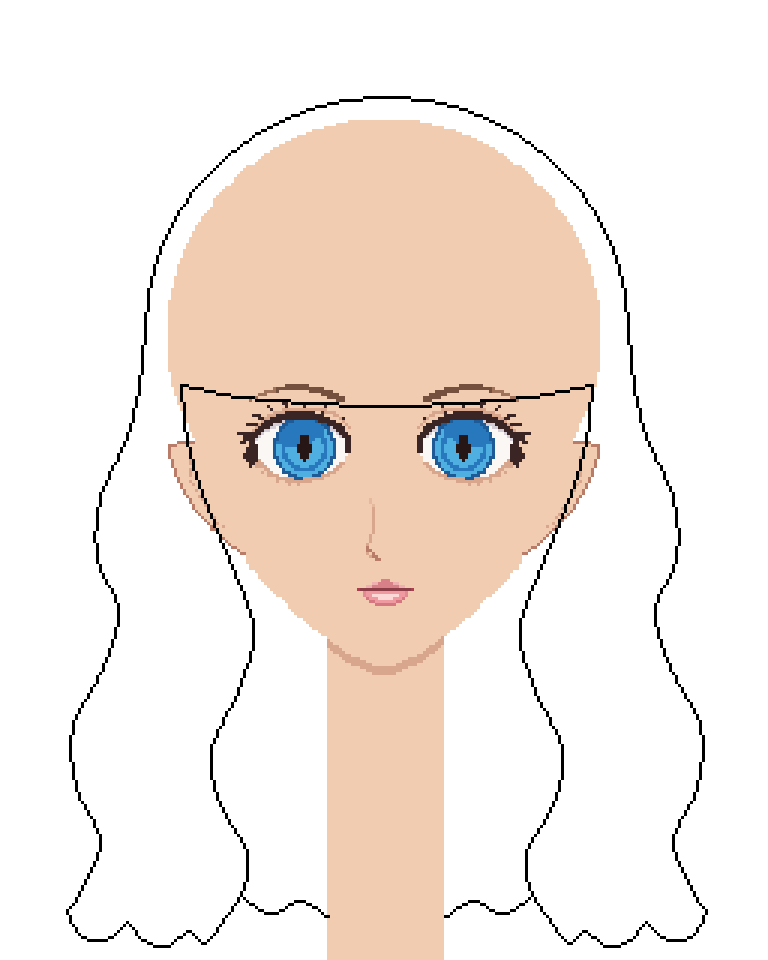
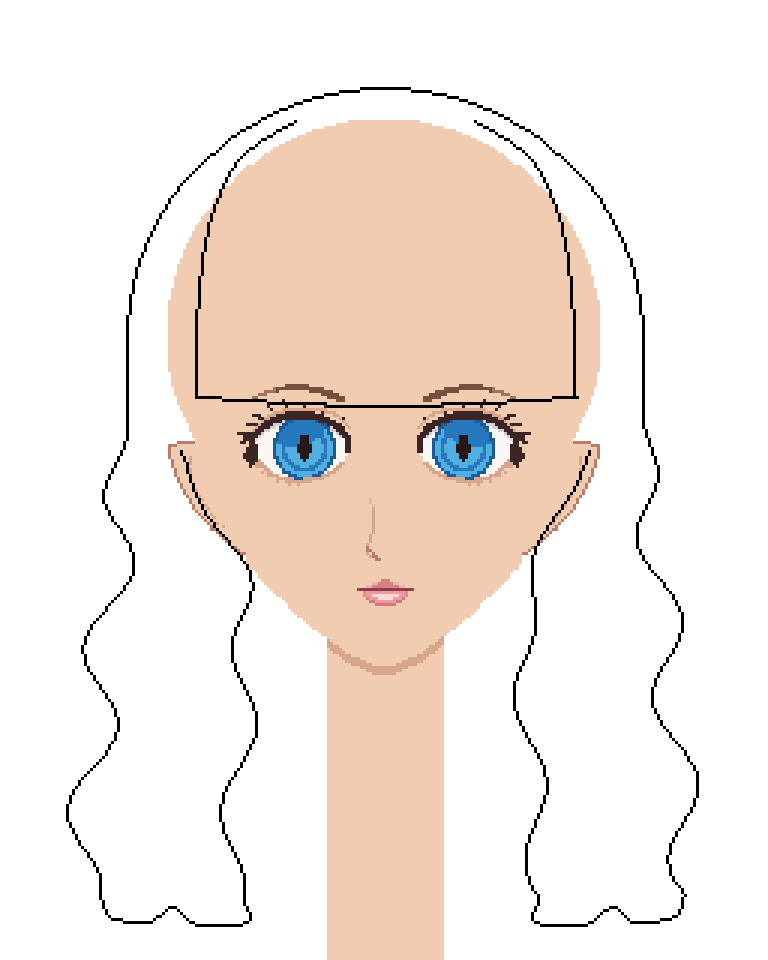
臉模 v2：大波浪第 2 步重畫（照教學圖）：大輪廓加大、前面方塊（兩條直線＋眉毛橫線）、內側那束從臉頰才開始
Claude-Session: https://claude.ai/code/session_01FDQv7ddy7JMjePn6AqJ3VJ

diff --git a/web/droom/face_mold/v2/hair_wavy.py b/web/droom/face_mold/v2/hair_wavy.py
@@ -37,22 +37,40 @@ def pixels(pts):
     out.append(path[i]);i+=1
   return out
 def mirror(pts,dx=0,dy=0):return [(2*CX-x+dx,y+dy) for x,y in pts]
+def wave(y,y0=148,per=54,ph=0):return math.sin(2*math.pi*(y-y0+ph)/per)
 def curves():
+  # 使用者 2026-11-19：上一步錯了（前髮、後髮都很假）→ 照教學圖第 2 步重畫：
+  #   ① 整個頭髮的大輪廓要大：頭頂高出頭殼一截，耳朵那層已經在耳朵外面很遠，往下越來越寬，到胸口
+  #   ② 前面是一個「方塊」：左右兩條線從頭頂直直下到太陽穴，眉毛高度一條橫線
+  #   ③ 內側那束從臉頰（耳朵下緣那層）才開始，往下蓋過下巴邊緣
+  #   波浪從頭的一半（眼睛那層）開始，大而柔，一個起伏約 54 格
   C=[]
-  # 頭頂圓頂（左右兩半，從頭頂中間往兩邊下來）
-  domeL=[(CX+80*math.cos(a),CY-1+79*math.sin(a)) for a in np.radians(np.linspace(-90,-178,10))]   # a=-90 頭頂、-178 左邊
-  # 外輪廓（左）：從太陽穴下來，眼睛那層開始波浪（大而柔的 S 形，一個起伏約 60 格），往下往外散
-  outerL=domeL[-1:]+[(46,128),(42,145),(33,166),(32,186),(39,203),(34,222),(24,242),(25,262),(33,280),(27,296),(22,304)]
-  # 內側那束（左）：太陽穴→蓋到臉頰邊→過下巴往外→跟外輪廓同步擺動往下
-  innerL=[(60,128),(62,146),(67,164),(76,186),(83,204),(84,214),(79,230),(70,250),(73,268),(82,284),(80,298),(74,306)]
-  # 髮尾（左）：兩三個圓圓捲起來的尾巴（不是尖的）
-  tipsL=[(22,304),(26,311),(35,313),(42,307),(46,312),(55,315),(63,310),(68,314),(74,306)]
-  # 後髮的下緣（左）：內側那束後面到脖子
-  backL=[(80,298),(90,304),(100,300),(109,305)]
-  for c in(domeL,outerL,innerL,tipsL,backL):
-    C.append(c);C.append(mirror(c,dx=1))
-  # 前髮：眉毛高度一條線（中間稍微低一點），寬到兩邊太陽穴
-  C.append([(60,128),(80,132),(104,134),(128,135),(152,134),(176,132),(197,128)])
+  for s,ph,amp in((-1,0,1.0),(1,9,.9)):
+    X=lambda x,s=s:CX+s*(CX-x) if s>0 else x
+    # ① 外輪廓：頭頂圓頂（半寬 86、比頭殼高 12 格）→ 太陽穴 → 波浪往下往外
+    dome=[(CX+86*math.cos(math.radians(a)),CY+1-84*math.sin(math.radians(a))) for a in np.linspace(90,180,12)]
+    side=[]
+    for y in np.arange(118,301,6):
+      base=42-16*max(0,(y-140)/160)
+      A=amp*(0 if y<140 else min(1,(y-140)/30))*7
+      side.append((base-A*wave(y,ph=ph),y))
+    outer=dome+side
+    C.append([(X(x),y) for x,y in outer])
+    # ③ 內側那束：臉頰那層開始，往下蓋過下巴邊緣，過了下巴往外，跟外輪廓同步擺動
+    inner=[]
+    for y in np.arange(150,301,6):
+      base=60+22*min(1,(y-150)/50)-6*max(0,(y-215)/85)
+      A=amp*min(1,(y-150)/40)*5
+      inner.append((base-A*wave(y,ph=ph),y))
+    C.append([(X(x),y) for x,y in inner])
+    # 髮尾：外輪廓尾巴和內側尾巴之間，兩個圓圓的捲
+    xo,yo=outer[-1];xi,yi=inner[-1]
+    tip=[(xo,yo),(xo+3,yo+7),(xo+(xi-xo)*.35,yo+9),(xo+(xi-xo)*.5,yo+4),(xo+(xi-xo)*.7,yo+10),(xi+2,yi+7),(xi,yi)]
+    C.append([(X(x),y) for x,y in tip])
+    # ② 前面的方塊：左右兩條線從頭頂下到太陽穴（順著額頭一點點弧度）
+    blk=[(CX-30,40),(CX-48,52),(CX-58,72),(CX-62,96),(CX-63,118),(CX-63,132)]
+    C.append([(X(x),y) for x,y in blk])
+  C.append([(CX-63,132),(CX-30,134),(CX,135),(CX+30,134),(CX+64,132)])   # 眉毛高度的橫線
   return C
 def extend(img):
   # 畫布往下加長到 H（頭髮到肩膀下面）：脖子照最後一列往下延
